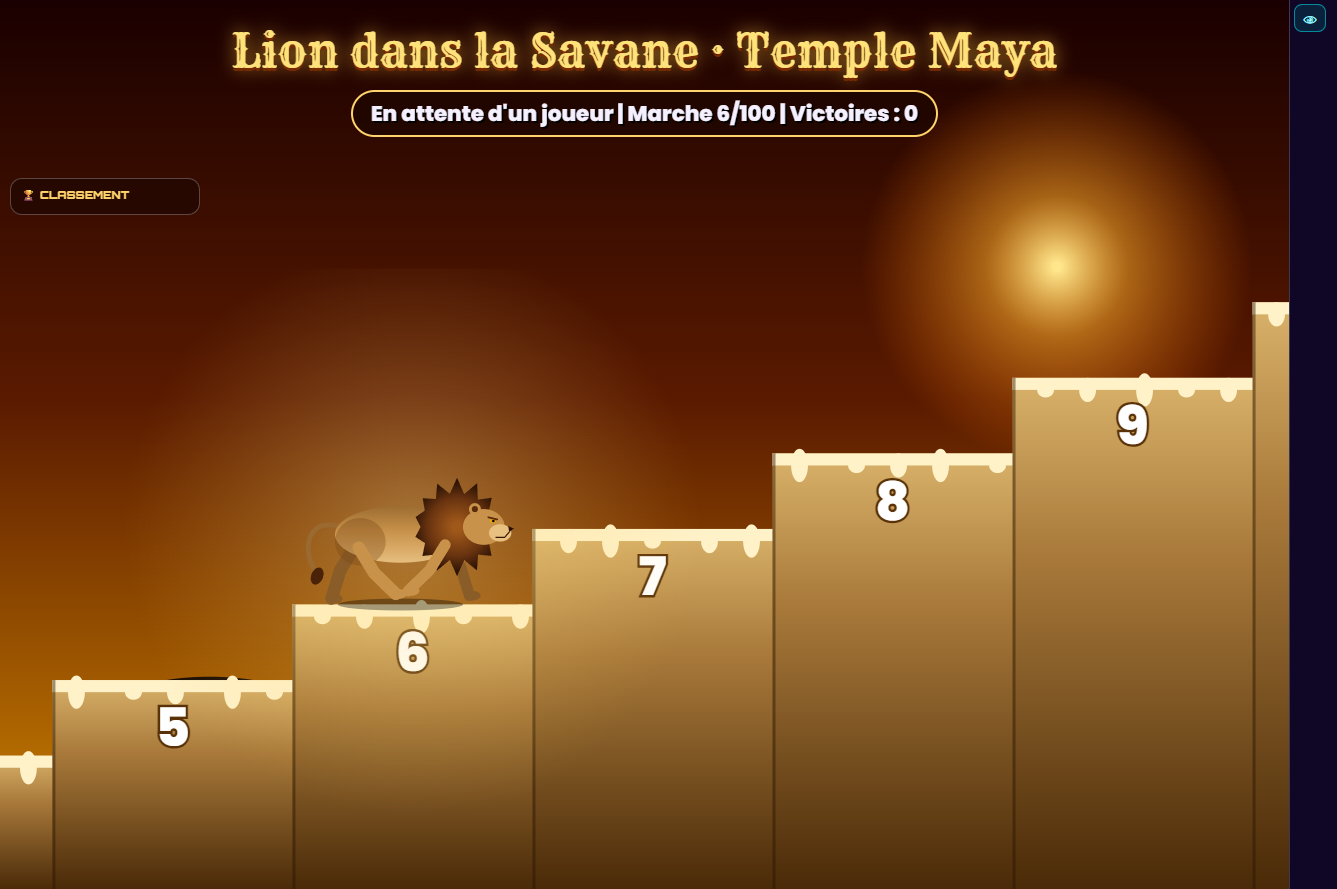
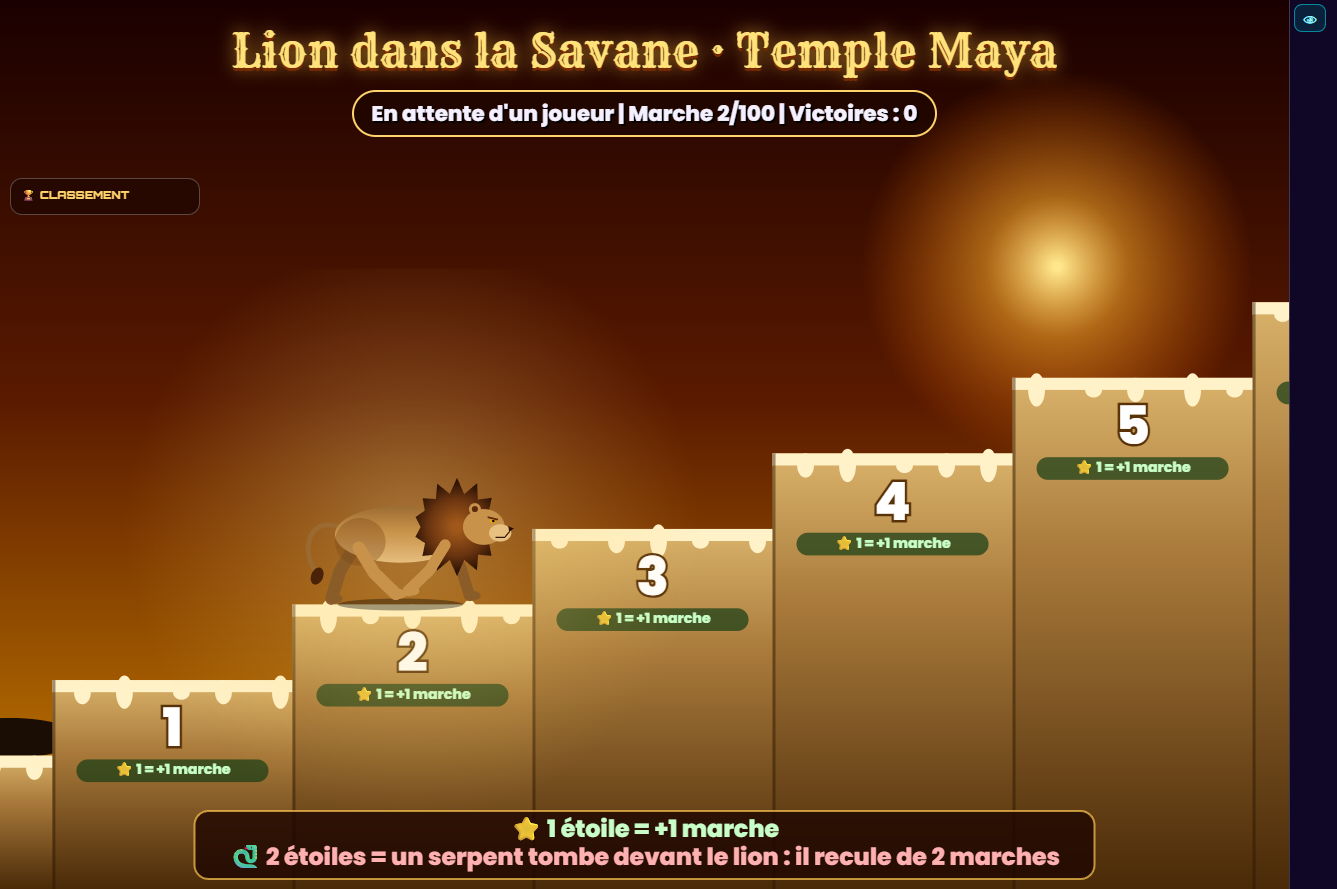
Lion Temple Maya : banniere sous les marches, serpent a 2 etoiles, plus de gain au sommet

diff --git a/lion-temple-maya.html b/lion-temple-maya.html
@@ -100,10 +100,9 @@
             <section class="box">
                 <h3>Réglages</h3>
                 <div class="row">
-                    <label>⭐ au sommet<input id="summit" type="number" min="0" max="10000" value="100"></label>
-                    <label>🐍 obstacles<input id="obstacles" type="number" min="0" max="60" value="33"></label>
+                    <label>🐍 étoiles pour lâcher un serpent<input id="snake" type="number" min="2" max="1000" value="2"></label>
                 </div>
-                <label>Recul après obstacle (marches)<input id="back" type="number" min="0" max="99" value="2"></label>
+                <label>Recul du lion sur un serpent (marches)<input id="back" type="number" min="0" max="99" value="2"></label>
             </section>
             <section class="box">
                 <h3>Simulateur (sans étoiles réelles)</h3>
@@ -112,6 +111,7 @@
                     <button id="sim-gift" class="btn" type="button">🎁 1 pièce</button>
                     <button id="sim-burst" class="btn" type="button">💥 ×10</button>
                 </div>
+                <button id="sim-snake" class="btn" type="button">🐍 2 étoiles = serpent</button>
                 <button id="sim-big" class="btn" type="button">💎 100 pièces = 100 marches</button>
                 <button id="sim-share" class="btn" type="button">✈ Partage du live</button>
             </section>
@@ -131,7 +131,7 @@
         const $ = id => document.getElementById(id);
         const SAVE_KEY = 'lion-temple-maya-save';
         const TOP = 100, VIS = 14;
-        const settings = { summit: 100, obstacles: 33, back: 2, speed: 1, hideBoard: false };
+        const settings = { snake: 2, back: 2, speed: 1, hideBoard: false };
         let cam = 0;
         const viewers = new Map();
         const queue = [];
@@ -200,10 +200,21 @@
         const stepX = (g, s) => g.ax + (s - cam) * g.SW;
         const stepY = (g, s) => g.ay - (s - heightOf(cam)) * g.SH;
 
-        function buildObstacles() {
-            obst = new Set();
-            const n = Math.min(TOP - 2, Math.max(0, settings.obstacles));
-            while (obst.size < n) obst.add(rand(2, TOP - 1));
+        function buildObstacles() { obst = new Set(); }
+
+        /* un cadeau du bon nombre d'étoiles lâche un serpent sur la marche juste devant le lion */
+        function dropSnake(viewer) {
+            let s = pos + 1;
+            while (s < TOP && obst.has(s)) s++;
+            if (s >= TOP) return false;
+            obst.add(s);
+            say(`🐍 @${viewer.username} lâche un serpent sur la marche ${s} !`);
+            sndHit();
+            return true;
+        }
+        function gift(viewer, coins, sim) {
+            if (Math.floor(coins) === settings.snake) dropSnake(viewer);
+            else enqueue(viewer, coins, sim);
         }
 
         function drawStar(x, y, r) {
@@ -317,17 +328,16 @@
                     ctx.fillStyle = bad ? 'rgba(120,10,10,.8)' : 'rgba(20,60,20,.7)';
                     ctx.beginPath(); ctx.roundRect(bx, by, bw, bh, bh / 2); ctx.fill();
                     ctx.font = `800 ${bh * 0.62}px Poppins, sans-serif`; ctx.fillStyle = bad ? '#ffb0b0' : '#c8ffc8';
-                    ctx.fillText(bad ? `🐍 BLOQUE −${settings.back}` : '⭐ 1 = +1 marche', bx + bw / 2, by + bh / 2);
+                    ctx.fillText(bad ? `🐍 SERPENT −${settings.back}` : '⭐ 1 = +1 marche', bx + bw / 2, by + bh / 2);
                 }
             }
-            // légende fixe : ce qui fait avancer ou bloquer, en étoiles
-            const lw = Math.min(g.w * 0.34, 300), lh = g.SH * 2.3, lx = g.w - lw - 14, ly = g.h * 0.2;
-            ctx.fillStyle = 'rgba(30,6,0,.72)'; ctx.beginPath(); ctx.roundRect(lx, ly, lw, lh, 12); ctx.fill();
-            ctx.strokeStyle = 'rgba(255,200,80,.6)'; ctx.lineWidth = 1.5; ctx.stroke();
-            ctx.textAlign = 'left'; ctx.textBaseline = 'middle'; ctx.font = `800 ${Math.max(12, g.SH * 0.26)}px Poppins, sans-serif`;
-            const rows = [['#ffe27a', '⭐ 1 étoile = +1 marche'], ['#c8ffc8', '⭐ 100 étoiles = +100'], ['#ffb0b0', `🐍 Serpent = −${settings.back} marches`], ['#ffe27a', `🏆 Sommet = +${settings.summit} ⭐`]];
-            rows.forEach((r, k) => { ctx.fillStyle = r[0]; ctx.fillText(r[1], lx + 12, ly + lh * (0.14 + k * 0.24)); });
-            ctx.textAlign = 'center';
+            // bannière sous les marches : ce qui fait avancer ou bloquer, en étoiles
+            const lw = Math.min(g.w * 0.92, 900), lh = g.SH * 0.9, lx = (g.w - lw) / 2, ly = g.h - lh - 10;
+            ctx.fillStyle = 'rgba(30,6,0,.82)'; ctx.beginPath(); ctx.roundRect(lx, ly, lw, lh, 14); ctx.fill();
+            ctx.strokeStyle = 'rgba(255,200,80,.7)'; ctx.lineWidth = 2; ctx.stroke();
+            ctx.textAlign = 'center'; ctx.textBaseline = 'middle'; ctx.font = `800 ${Math.max(12, Math.min(g.SH * 0.36, lw / 38))}px Poppins, sans-serif`;
+            const rows = [['#c8ffc8', '⭐ 1 étoile = +1 marche'], ['#ffb0b0', `🐍 ${settings.snake} étoiles = un serpent tombe devant le lion : il recule de ${settings.back} marches`]];
+            rows.forEach((r, k) => { ctx.fillStyle = r[0]; ctx.fillText(r[1], lx + lw / 2, ly + lh * (0.3 + k * 0.4)); });
             // temple et étoile dorée au sommet
             const tx = stepX(g, TOP), ty = stepY(g, TOP);
             if (tx > -g.SW * 2 && tx < g.w + g.SW * 2) {
@@ -404,11 +414,10 @@
 
         function victory(entry) {
             victories++;
-            award(entry.viewer, settings.summit, entry.sim);
-            say(`🏆 @${entry.viewer.username} mène le lion au sommet : +${settings.summit} ⭐ !`);
+            say(`🏆 @${entry.viewer.username} mène le lion au sommet !`);
             showVip(entry.viewer);
             const g = geo();
-            floatText(`🏆 +${settings.summit} ⭐`, stepX(g, TOP), stepY(g, TOP) - g.th * 4);
+            floatText('🏆 Sommet !', stepX(g, TOP), stepY(g, TOP) - g.th * 4);
             sndWin();
             if (window.ArcadeEffects) ArcadeEffects.fireworks(g.cx, g.top, true);
             resetAt = clock + 4;
@@ -494,7 +503,7 @@
                 const v = getViewer(g.uniqueId || g.username || g.nickname);
                 const pic = g.avatarUrl || (Array.isArray(g.avatarUrls) && g.avatarUrls[0]) || '';
                 if (/^https?:\/\//i.test(pic)) v.avatar = pic;
-                enqueue(v, coinsOf(g), false);
+                gift(v, coinsOf(g), false);
             }
         }
         function connect() {
@@ -514,7 +523,7 @@
         window.addEventListener('arcade:wallet-run', e => {
             const p = e.detail && e.detail.player, spent = Math.floor(Number(e.detail && e.detail.spent) || 0);
             const name = p && (p.username || p.uniqueId || p.nickname);
-            if (name && spent > 0) enqueue(getViewer(name), spent, false);
+            if (name && spent > 0) gift(getViewer(name), spent, false);
         });
 
         /* ---------- Sauvegarde ---------- */
@@ -536,15 +545,16 @@
         /* ---------- Interface ---------- */
         function syncControls() {
             $('speed').value = settings.speed; $('speed-out').textContent = settings.speed + '×';
-            $('summit').value = settings.summit; $('obstacles').value = settings.obstacles; $('back').value = settings.back;
+            $('snake').value = settings.snake; $('back').value = settings.back;
             $('hide-board').checked = settings.hideBoard;
         }
         function bindUi() {
             $('connect').addEventListener('click', () => { connect(); saveGame(); });
             const simName = () => $('sim-name').value.trim() || 'Spectateur démo';
-            const sim = n => enqueue(getViewer(simName()), n, true);
+            const sim = n => gift(getViewer(simName()), n, true);
             $('sim-gift').addEventListener('click', () => sim(1));
             $('sim-burst').addEventListener('click', () => sim(10));
+            $('sim-snake').addEventListener('click', () => sim(settings.snake));
             $('sim-big').addEventListener('click', () => {
                 sim(100);
                 if (window.ArcadeEffects) ArcadeEffects.simulateBigGift(simName(), 100);
@@ -554,12 +564,11 @@
             $('speed-reset').addEventListener('click', () => { settings.speed = 1; syncControls(); saveGame(); });
             const nums = () => {
                 const clamp = (v, lo, hi, d) => Number.isFinite(v) ? Math.min(hi, Math.max(lo, Math.floor(v))) : d;
-                settings.summit = clamp(Number($('summit').value), 0, 10000, 100);
-                settings.obstacles = clamp(Number($('obstacles').value), 0, 60, 33);
+                settings.snake = clamp(Number($('snake').value), 2, 1000, 2);
                 settings.back = clamp(Number($('back').value), 0, 19, 2);
                 saveGame();
             };
-            ['summit', 'obstacles', 'back'].forEach(id => $(id).addEventListener('input', nums));
+            ['snake', 'back'].forEach(id => $(id).addEventListener('input', nums));
             $('reset-climb').addEventListener('click', climbReset);
             $('hide-board').addEventListener('change', e => { settings.hideBoard = e.target.checked; refreshBoards(); saveGame(); });
             $('reset-board').addEventListener('click', () => { if (confirm('Remettre le classement à zéro ?')) { viewers.forEach(v => { v.stars = 0; }); victories = 0; refreshBoards(); saveGame(); } });

diff --git a/accueil.html b/accueil.html
@@ -636,7 +636,7 @@
                 <a class="game-card" data-game-id="/machine-a-pinces.html" href="/machine-a-pinces.html"><span class="game-number">NOUVEAU / LIVE</span><img class="game-visual custom-game-image" src="images-vitrine/machine-a-pinces.png" alt="Aperçu du jeu Machine à Pinces Gryphon Agency"><h3>Machine à Pinces</h3><p>Chaque cadeau fait descendre la pince : attrape une peluche et gagne des étoiles.</p><span class="game-launch">JOUER ↗</span></a>
                 <a class="game-card" data-game-id="/memoire-du-cirque.html" href="/memoire-du-cirque.html"><span class="game-number">NOUVEAU / LIVE</span><img class="game-visual custom-game-image" src="images-vitrine/memoire-du-cirque.png" alt="Aperçu du jeu Mémoire du Cirque"><h3>Mémoire du Cirque</h3><p>Un jeton = une partie : écris le numéro d'une carte dans le chat, enchaîne les paires (1 ⭐ chacune, +5 ⭐ grille complète) jusqu'à l'erreur.</p><span class="game-launch">JOUER ↗</span></a>
                 <a class="game-card" data-game-id="/lancer-de-cerceaux.html" href="/lancer-de-cerceaux.html"><span class="game-number">NOUVEAU / LIVE</span><img class="game-visual custom-game-image" src="images-vitrine/lancer-de-cerceaux.png" alt="Aperçu du jeu Lancer de Cerceaux"><h3>Lancer de Cerceaux</h3><p>1 pièce = 1 cerceau : réussis à lancer sur les quilles, 1 ⭐ par quille, +5 ⭐ si toutes sont remplies.</p><span class="game-launch">JOUER ↗</span></a>
-                <a class="game-card" data-game-id="/lion-temple-maya.html" href="/lion-temple-maya.html"><span class="game-number">NOUVEAU / LIVE</span><img class="game-visual custom-game-image" src="images-vitrine/lion-temple-maya.png" alt="Aperçu du jeu Lion dans la Savane"><h3>Lion dans la Savane</h3><p>1 pièce = 1 marche : tous poussent le lion vers le temple maya, esquive les serpents, +100 ⭐ au sommet.</p><span class="game-launch">JOUER ↗</span></a>
+                <a class="game-card" data-game-id="/lion-temple-maya.html" href="/lion-temple-maya.html"><span class="game-number">NOUVEAU / LIVE</span><img class="game-visual custom-game-image" src="images-vitrine/lion-temple-maya.png" alt="Aperçu du jeu Lion dans la Savane"><h3>Lion dans la Savane</h3><p>1 pièce = 1 marche : tous poussent le lion vers le temple maya, 2 étoiles lâchent un serpent qui le fait reculer.</p><span class="game-launch">JOUER ↗</span></a>
  
                 <a class="game-card" data-game-id="/coin-pusher-canard.html" href="/coin-pusher-canard.html"><span class="game-number">14 / ARCADE</span><img class="game-visual custom-game-image" src="images-vitrine/coin-pusher-canard.png" alt="Aperçu du jeu Queen Pusher Canard"><h3>Queen Pusher Canard</h3><p>Des canards multicolores tombent et glissent sur la table en bois.</p><span class="game-launch">JOUER ↗</span></a>
                 <a class="game-card" data-game-id="/monde-du-ballon.html" href="/monde-du-ballon.html"><span class="game-number">12 / LIVE</span><img class="game-visual custom-game-image" src="images-vitrine/monde-du-ballon.png" alt="Aperçu du jeu Le Monde du Ballon"><h3>Le Monde du Ballon</h3><p>Les ballons descendent dans l’arène au rythme du direct.</p><span class="game-launch">JOUER ↗</span></a>
